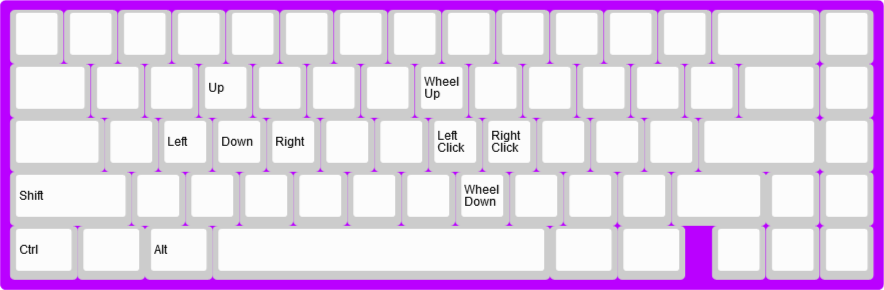
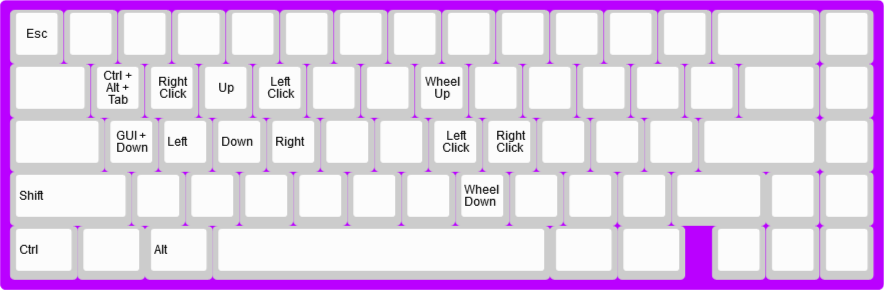
Fine tune kbd67v2 and alt mouse key layers to better match lynepad

diff --git a/keyboards/massdrop/alt/keymap.c b/keyboards/massdrop/alt/keymap.c
@@ -70,10 +70,10 @@ const uint16_t PROGMEM keymaps[][MATRIX_ROWS][MATRIX_COLS] = {
                                      KC_TRNS, KC_TRNS, KC_TRNS, KC_TRNS, KC_TRNS, KC_TRNS, KC_TRNS, KC_TRNS, KC_TRNS, KC_TRNS, KC_TRNS, KC_TRNS, KC_TRNS, KC_PSCR,
                                      KC_TRNS, KC_TRNS, KC_TRNS, KC_TRNS, KC_TRNS, KC_TRNS, KC_TRNS, KC_TRNS, KC_TRNS, KC_TRNS, KC_MEDIA_PLAY_PAUSE, KC_RSFT, KC_VOLU, KC_MUTE,
                                      KC_TRNS, KC_TRNS, KC_TRNS, KC_TRNS, KC_TRNS, KC_RALT, RGB_VAD, KC_VOLD, RGB_VAI),
-        [2] = LAYOUT_65_ansi_blocker(KC_ESC, KC_NO, KC_NO, KC_NO, KC_NO, KC_NO, KC_NO, KC_NO, KC_NO, KC_NO, KC_NO, KC_NO, KC_NO, KC_NO, KC_NO,
-                                     KC_NO, KC_NO, KC_NO, KC_MS_UP, KC_NO, KC_NO, KC_NO, KC_MS_WH_UP, KC_NO, KC_NO, KC_NO, KC_NO, KC_NO, KC_NO, KC_NO,
-                                     KC_NO, KC_NO, KC_MS_LEFT, KC_MS_DOWN, KC_MS_RIGHT, KC_NO, KC_NO, KC_MS_BTN1, KC_MS_BTN2, KC_NO, KC_NO, KC_NO, KC_NO, KC_NO,
-                                     KC_LSFT, KC_NO, KC_X, KC_C, KC_V, KC_NO, KC_NO, KC_MS_WH_DOWN, KC_NO, KC_NO, KC_NO, KC_NO, KC_NO, KC_NO,
+        [2] = LAYOUT_65_ansi_blocker(KC_ESC, KC_ESC, KC_NO, KC_NO, KC_NO, KC_NO, KC_NO, KC_NO, KC_NO, KC_NO, KC_NO, KC_NO, KC_NO, KC_NO, KC_NO,
+                                     KC_NO, LCTL(LALT(KC_TAB)), KC_MS_BTN2, KC_MS_UP, KC_MS_BTN1, KC_NO, KC_NO, KC_MS_WH_UP, KC_NO, KC_NO, KC_NO, KC_NO, KC_NO, KC_NO, KC_NO,
+                                     KC_NO, LGUI(KC_DOWN), KC_MS_LEFT, KC_MS_DOWN, KC_MS_RIGHT, KC_NO, KC_NO, KC_MS_BTN1, KC_MS_BTN2, KC_NO, KC_NO, KC_NO, KC_NO, KC_NO,
+                                     KC_LSFT, KC_NO, KC_X, KC_C, KC_V, KC_NO, KC_NO, KC_MS_WH_DOWN, KC_NO, KC_NO, KC_NO, KC_RSFT, KC_NO, KC_NO,
                                      KC_LCTL, KC_NO, TG(2), KC_NO, TG(2), KC_NO, KC_NO, KC_NO, KC_NO),
 };
 
@@ -92,8 +92,8 @@ const uint8_t PROGMEM ledcolors[][DRIVER_LED_TOTAL][3] = {
     },
     [2] = {
         {RGB_KMN_PRPL}, {RGB_KMN_NO_COLOR}, {RGB_KMN_NO_COLOR}, {RGB_KMN_NO_COLOR}, {RGB_KMN_NO_COLOR}, {RGB_KMN_NO_COLOR}, {RGB_KMN_NO_COLOR}, {RGB_KMN_NO_COLOR}, {RGB_KMN_NO_COLOR}, {RGB_KMN_NO_COLOR}, {RGB_KMN_NO_COLOR}, {RGB_KMN_NO_COLOR}, {RGB_KMN_NO_COLOR}, {RGB_KMN_NO_COLOR}, {RGB_KMN_NO_COLOR},
-        {RGB_KMN_NO_COLOR}, {RGB_KMN_NO_COLOR}, {RGB_KMN_NO_COLOR}, {RGB_KMN_PRPL}, {RGB_KMN_NO_COLOR}, {RGB_KMN_NO_COLOR}, {RGB_KMN_NO_COLOR}, {RGB_KMN_PRPL}, {RGB_KMN_NO_COLOR}, {RGB_KMN_NO_COLOR}, {RGB_KMN_NO_COLOR}, {RGB_KMN_NO_COLOR}, {RGB_KMN_NO_COLOR}, {RGB_KMN_NO_COLOR}, {RGB_KMN_NO_COLOR},
-        {RGB_KMN_NO_COLOR}, {RGB_KMN_NO_COLOR}, {RGB_KMN_PRPL}, {RGB_KMN_PRPL}, {RGB_KMN_PRPL}, {RGB_KMN_NO_COLOR}, {RGB_KMN_NO_COLOR}, {RGB_KMN_PRPL}, {RGB_KMN_PRPL}, {RGB_KMN_NO_COLOR}, {RGB_KMN_NO_COLOR}, {RGB_KMN_NO_COLOR}, {RGB_KMN_NO_COLOR}, {RGB_KMN_NO_COLOR},
+        {RGB_KMN_NO_COLOR}, {RGB_KMN_PRPL}, {RGB_KMN_PRPL}, {RGB_KMN_PRPL}, {RGB_KMN_PRPL}, {RGB_KMN_NO_COLOR}, {RGB_KMN_NO_COLOR}, {RGB_KMN_PRPL}, {RGB_KMN_NO_COLOR}, {RGB_KMN_NO_COLOR}, {RGB_KMN_NO_COLOR}, {RGB_KMN_NO_COLOR}, {RGB_KMN_NO_COLOR}, {RGB_KMN_NO_COLOR}, {RGB_KMN_NO_COLOR},
+        {RGB_KMN_NO_COLOR}, {RGB_KMN_PRPL}, {RGB_KMN_PRPL}, {RGB_KMN_PRPL}, {RGB_KMN_PRPL}, {RGB_KMN_NO_COLOR}, {RGB_KMN_NO_COLOR}, {RGB_KMN_PRPL}, {RGB_KMN_PRPL}, {RGB_KMN_NO_COLOR}, {RGB_KMN_NO_COLOR}, {RGB_KMN_NO_COLOR}, {RGB_KMN_NO_COLOR}, {RGB_KMN_NO_COLOR},
         {RGB_KMN_PRPL}, {RGB_KMN_NO_COLOR}, {RGB_KMN_NO_COLOR}, {RGB_KMN_NO_COLOR}, {RGB_KMN_NO_COLOR}, {RGB_KMN_NO_COLOR}, {RGB_KMN_NO_COLOR}, {RGB_KMN_PRPL}, {RGB_KMN_NO_COLOR}, {RGB_KMN_NO_COLOR}, {RGB_KMN_NO_COLOR}, {RGB_KMN_NO_COLOR}, {RGB_KMN_NO_COLOR}, {RGB_KMN_NO_COLOR},
         {RGB_KMN_PRPL}, {RGB_KMN_NO_COLOR}, {RGB_KMN_PRPL}, {RGB_KMN_NO_COLOR}, {RGB_KMN_PRPL}, {RGB_KMN_NO_COLOR}, {RGB_KMN_NO_COLOR}, {RGB_KMN_NO_COLOR}, {RGB_KMN_NO_COLOR},
         // Underglow == 38 LEDS

diff --git a/qmk/keyboards/massdrop/alt/keymaps/kemonine/keymap.c b/qmk/keyboards/massdrop/alt/keymaps/kemonine/keymap.c
@@ -70,10 +70,10 @@ const uint16_t PROGMEM keymaps[][MATRIX_ROWS][MATRIX_COLS] = {
                                      KC_TRNS, KC_TRNS, KC_TRNS, KC_TRNS, KC_TRNS, KC_TRNS, KC_TRNS, KC_TRNS, KC_TRNS, KC_TRNS, KC_TRNS, KC_TRNS, KC_TRNS, KC_PSCR,
                                      KC_TRNS, KC_TRNS, KC_TRNS, KC_TRNS, KC_TRNS, KC_TRNS, KC_TRNS, KC_TRNS, KC_TRNS, KC_TRNS, KC_MEDIA_PLAY_PAUSE, KC_RSFT, KC_VOLU, KC_MUTE,
                                      KC_TRNS, KC_TRNS, KC_TRNS, KC_TRNS, KC_TRNS, KC_RALT, RGB_VAD, KC_VOLD, RGB_VAI),
-        [2] = LAYOUT_65_ansi_blocker(KC_ESC, KC_NO, KC_NO, KC_NO, KC_NO, KC_NO, KC_NO, KC_NO, KC_NO, KC_NO, KC_NO, KC_NO, KC_NO, KC_NO, KC_NO,
-                                     KC_NO, KC_NO, KC_NO, KC_MS_UP, KC_NO, KC_NO, KC_NO, KC_MS_WH_UP, KC_NO, KC_NO, KC_NO, KC_NO, KC_NO, KC_NO, KC_NO,
-                                     KC_NO, KC_NO, KC_MS_LEFT, KC_MS_DOWN, KC_MS_RIGHT, KC_NO, KC_NO, KC_MS_BTN1, KC_MS_BTN2, KC_NO, KC_NO, KC_NO, KC_NO, KC_NO,
-                                     KC_LSFT, KC_NO, KC_X, KC_C, KC_V, KC_NO, KC_NO, KC_MS_WH_DOWN, KC_NO, KC_NO, KC_NO, KC_NO, KC_NO, KC_NO,
+        [2] = LAYOUT_65_ansi_blocker(KC_ESC, KC_ESC, KC_NO, KC_NO, KC_NO, KC_NO, KC_NO, KC_NO, KC_NO, KC_NO, KC_NO, KC_NO, KC_NO, KC_NO, KC_NO,
+                                     KC_NO, LCTL(LALT(KC_TAB)), KC_MS_BTN2, KC_MS_UP, KC_MS_BTN1, KC_NO, KC_NO, KC_MS_WH_UP, KC_NO, KC_NO, KC_NO, KC_NO, KC_NO, KC_NO, KC_NO,
+                                     KC_NO, LGUI(KC_DOWN), KC_MS_LEFT, KC_MS_DOWN, KC_MS_RIGHT, KC_NO, KC_NO, KC_MS_BTN1, KC_MS_BTN2, KC_NO, KC_NO, KC_NO, KC_NO, KC_NO,
+                                     KC_LSFT, KC_NO, KC_X, KC_C, KC_V, KC_NO, KC_NO, KC_MS_WH_DOWN, KC_NO, KC_NO, KC_NO, KC_RSFT, KC_NO, KC_NO,
                                      KC_LCTL, KC_NO, TG(2), KC_NO, TG(2), KC_NO, KC_NO, KC_NO, KC_NO),
 };
 
@@ -92,8 +92,8 @@ const uint8_t PROGMEM ledcolors[][DRIVER_LED_TOTAL][3] = {
     },
     [2] = {
         {RGB_KMN_PRPL}, {RGB_KMN_NO_COLOR}, {RGB_KMN_NO_COLOR}, {RGB_KMN_NO_COLOR}, {RGB_KMN_NO_COLOR}, {RGB_KMN_NO_COLOR}, {RGB_KMN_NO_COLOR}, {RGB_KMN_NO_COLOR}, {RGB_KMN_NO_COLOR}, {RGB_KMN_NO_COLOR}, {RGB_KMN_NO_COLOR}, {RGB_KMN_NO_COLOR}, {RGB_KMN_NO_COLOR}, {RGB_KMN_NO_COLOR}, {RGB_KMN_NO_COLOR},
-        {RGB_KMN_NO_COLOR}, {RGB_KMN_NO_COLOR}, {RGB_KMN_NO_COLOR}, {RGB_KMN_PRPL}, {RGB_KMN_NO_COLOR}, {RGB_KMN_NO_COLOR}, {RGB_KMN_NO_COLOR}, {RGB_KMN_PRPL}, {RGB_KMN_NO_COLOR}, {RGB_KMN_NO_COLOR}, {RGB_KMN_NO_COLOR}, {RGB_KMN_NO_COLOR}, {RGB_KMN_NO_COLOR}, {RGB_KMN_NO_COLOR}, {RGB_KMN_NO_COLOR},
-        {RGB_KMN_NO_COLOR}, {RGB_KMN_NO_COLOR}, {RGB_KMN_PRPL}, {RGB_KMN_PRPL}, {RGB_KMN_PRPL}, {RGB_KMN_NO_COLOR}, {RGB_KMN_NO_COLOR}, {RGB_KMN_PRPL}, {RGB_KMN_PRPL}, {RGB_KMN_NO_COLOR}, {RGB_KMN_NO_COLOR}, {RGB_KMN_NO_COLOR}, {RGB_KMN_NO_COLOR}, {RGB_KMN_NO_COLOR},
+        {RGB_KMN_NO_COLOR}, {RGB_KMN_PRPL}, {RGB_KMN_PRPL}, {RGB_KMN_PRPL}, {RGB_KMN_PRPL}, {RGB_KMN_NO_COLOR}, {RGB_KMN_NO_COLOR}, {RGB_KMN_PRPL}, {RGB_KMN_NO_COLOR}, {RGB_KMN_NO_COLOR}, {RGB_KMN_NO_COLOR}, {RGB_KMN_NO_COLOR}, {RGB_KMN_NO_COLOR}, {RGB_KMN_NO_COLOR}, {RGB_KMN_NO_COLOR},
+        {RGB_KMN_NO_COLOR}, {RGB_KMN_PRPL}, {RGB_KMN_PRPL}, {RGB_KMN_PRPL}, {RGB_KMN_PRPL}, {RGB_KMN_NO_COLOR}, {RGB_KMN_NO_COLOR}, {RGB_KMN_PRPL}, {RGB_KMN_PRPL}, {RGB_KMN_NO_COLOR}, {RGB_KMN_NO_COLOR}, {RGB_KMN_NO_COLOR}, {RGB_KMN_NO_COLOR}, {RGB_KMN_NO_COLOR},
         {RGB_KMN_PRPL}, {RGB_KMN_NO_COLOR}, {RGB_KMN_NO_COLOR}, {RGB_KMN_NO_COLOR}, {RGB_KMN_NO_COLOR}, {RGB_KMN_NO_COLOR}, {RGB_KMN_NO_COLOR}, {RGB_KMN_PRPL}, {RGB_KMN_NO_COLOR}, {RGB_KMN_NO_COLOR}, {RGB_KMN_NO_COLOR}, {RGB_KMN_NO_COLOR}, {RGB_KMN_NO_COLOR}, {RGB_KMN_NO_COLOR},
         {RGB_KMN_PRPL}, {RGB_KMN_NO_COLOR}, {RGB_KMN_PRPL}, {RGB_KMN_NO_COLOR}, {RGB_KMN_PRPL}, {RGB_KMN_NO_COLOR}, {RGB_KMN_NO_COLOR}, {RGB_KMN_NO_COLOR}, {RGB_KMN_NO_COLOR},
         // Underglow == 38 LEDS

diff --git a/keyboards/kbdfans/kbd67/rev2/keymap.c b/keyboards/kbdfans/kbd67/rev2/keymap.c
@@ -40,11 +40,11 @@ const uint16_t PROGMEM keymaps[][MATRIX_ROWS][MATRIX_COLS] = {
                                      KC_TRNS, KC_TRNS, KC_TRNS, KC_TRNS, KC_TRNS, KC_TRNS, KC_TRNS, KC_TRNS, KC_TRNS, KC_TRNS, KC_TRNS, KC_TRNS, KC_TRNS, KC_PSCR,
                                      KC_TRNS, KC_TRNS, KC_TRNS, KC_TRNS, KC_TRNS, KC_TRNS, KC_TRNS, KC_TRNS, KC_TRNS, KC_TRNS, KC_MEDIA_PLAY_PAUSE, KC_RSFT, KC_VOLU, KC_MUTE,
                                      KC_TRNS, KC_TRNS, KC_TRNS, KC_TRNS, KC_TRNS, KC_TRNS, KC_TRNS, RGB_VAD, KC_VOLD, RGB_VAI),
-        [2] = LAYOUT_65_ansi(KC_ESC, KC_NO, KC_NO, KC_NO, KC_NO, KC_NO, KC_NO, KC_NO, KC_NO, KC_NO, KC_NO, KC_NO, KC_NO, KC_NO, KC_NO,
-                                     KC_NO, KC_NO, KC_NO, KC_MS_UP, KC_NO, KC_NO, KC_NO, KC_MS_WH_UP, KC_NO, KC_NO, KC_NO, KC_NO, KC_NO, KC_NO, KC_NO,
-                                     KC_NO, KC_NO, KC_MS_LEFT, KC_MS_DOWN, KC_MS_RIGHT, KC_NO, KC_NO, KC_MS_BTN1, KC_MS_BTN2, KC_NO, KC_NO, KC_NO, KC_NO, KC_NO,
-                                     KC_LSFT, KC_NO, KC_X, KC_C, KC_V, KC_NO, KC_NO, KC_MS_WH_DOWN, KC_NO, KC_NO, KC_NO, KC_NO, KC_NO, KC_NO,
-                                     KC_LCTL, KC_NO, TG(2), KC_NO, TG(2), KC_NO, KC_NO, KC_NO, KC_NO, KC_NO),
+        [2] = LAYOUT_65_ansi(KC_ESC, KC_ESC, KC_NO, KC_NO, KC_NO, KC_NO, KC_NO, KC_NO, KC_NO, KC_NO, KC_NO, KC_NO, KC_NO, KC_NO, KC_NO,
+                                     KC_NO, LCTL(LALT(KC_TAB)), KC_MS_BTN2, KC_MS_UP, KC_MS_BTN1, KC_NO, KC_NO, KC_MS_WH_UP, KC_NO, KC_NO, KC_NO, KC_NO, KC_NO, KC_NO, KC_NO,
+                                     KC_NO, LGUI(KC_DOWN), KC_MS_LEFT, KC_MS_DOWN, KC_MS_RIGHT, KC_NO, KC_NO, KC_MS_BTN1, KC_MS_BTN2, KC_NO, KC_NO, KC_NO, KC_NO, KC_NO,
+                                     KC_LSFT, KC_NO, KC_X, KC_C, KC_V, KC_NO, KC_NO, KC_MS_WH_DOWN, KC_NO, KC_NO, KC_NO, KC_RSFT, KC_NO, KC_NO,
+                                     KC_LCTL, KC_NO, TG(2), KC_NO, TG(2), KC_RALT, KC_RCTL, KC_NO, KC_NO, KC_NO),
 };
 
 // Customized HSV values for layer highlights

diff --git a/qmk/keyboards/kbdfans/kbd67/rev2/keymaps/kemonine/keymap.c b/qmk/keyboards/kbdfans/kbd67/rev2/keymaps/kemonine/keymap.c
@@ -40,11 +40,11 @@ const uint16_t PROGMEM keymaps[][MATRIX_ROWS][MATRIX_COLS] = {
                                      KC_TRNS, KC_TRNS, KC_TRNS, KC_TRNS, KC_TRNS, KC_TRNS, KC_TRNS, KC_TRNS, KC_TRNS, KC_TRNS, KC_TRNS, KC_TRNS, KC_TRNS, KC_PSCR,
                                      KC_TRNS, KC_TRNS, KC_TRNS, KC_TRNS, KC_TRNS, KC_TRNS, KC_TRNS, KC_TRNS, KC_TRNS, KC_TRNS, KC_MEDIA_PLAY_PAUSE, KC_RSFT, KC_VOLU, KC_MUTE,
                                      KC_TRNS, KC_TRNS, KC_TRNS, KC_TRNS, KC_TRNS, KC_TRNS, KC_TRNS, RGB_VAD, KC_VOLD, RGB_VAI),
-        [2] = LAYOUT_65_ansi(KC_ESC, KC_NO, KC_NO, KC_NO, KC_NO, KC_NO, KC_NO, KC_NO, KC_NO, KC_NO, KC_NO, KC_NO, KC_NO, KC_NO, KC_NO,
-                                     KC_NO, KC_NO, KC_NO, KC_MS_UP, KC_NO, KC_NO, KC_NO, KC_MS_WH_UP, KC_NO, KC_NO, KC_NO, KC_NO, KC_NO, KC_NO, KC_NO,
-                                     KC_NO, KC_NO, KC_MS_LEFT, KC_MS_DOWN, KC_MS_RIGHT, KC_NO, KC_NO, KC_MS_BTN1, KC_MS_BTN2, KC_NO, KC_NO, KC_NO, KC_NO, KC_NO,
-                                     KC_LSFT, KC_NO, KC_X, KC_C, KC_V, KC_NO, KC_NO, KC_MS_WH_DOWN, KC_NO, KC_NO, KC_NO, KC_NO, KC_NO, KC_NO,
-                                     KC_LCTL, KC_NO, TG(2), KC_NO, TG(2), KC_NO, KC_NO, KC_NO, KC_NO, KC_NO),
+        [2] = LAYOUT_65_ansi(KC_ESC, KC_ESC, KC_NO, KC_NO, KC_NO, KC_NO, KC_NO, KC_NO, KC_NO, KC_NO, KC_NO, KC_NO, KC_NO, KC_NO, KC_NO,
+                                     KC_NO, LCTL(LALT(KC_TAB)), KC_MS_BTN2, KC_MS_UP, KC_MS_BTN1, KC_NO, KC_NO, KC_MS_WH_UP, KC_NO, KC_NO, KC_NO, KC_NO, KC_NO, KC_NO, KC_NO,
+                                     KC_NO, LGUI(KC_DOWN), KC_MS_LEFT, KC_MS_DOWN, KC_MS_RIGHT, KC_NO, KC_NO, KC_MS_BTN1, KC_MS_BTN2, KC_NO, KC_NO, KC_NO, KC_NO, KC_NO,
+                                     KC_LSFT, KC_NO, KC_X, KC_C, KC_V, KC_NO, KC_NO, KC_MS_WH_DOWN, KC_NO, KC_NO, KC_NO, KC_RSFT, KC_NO, KC_NO,
+                                     KC_LCTL, KC_NO, TG(2), KC_NO, TG(2), KC_RALT, KC_RCTL, KC_NO, KC_NO, KC_NO),
 };
 
 // Customized HSV values for layer highlights

diff --git a/keyboards/massdrop/alt/config.h b/keyboards/massdrop/alt/config.h
@@ -1,0 +1,12 @@
+#define TAPPING_TERM 200
+#define GRAVE_ESC_CTRL_OVERRIDE
+
+// Mouse settings
+#define MOUSEKEY_DELAY 175
+#define MOUSEKEY_WHEEL_DELAY 175
+#define MOUSEKEY_INTERVAL 20
+#define MOUSEKEY_TIME_TO_MAX 15
+#define MOUSEKEY_MAX_SPEED 5
+#define MOUSEKEY_WHEEL_INTERVAL 50
+#define MOUSEKEY_WHEEL_TIME_TO_MAX 20
+#define MOUSEKEY_WHEEL_MAX_SPEED 10

diff --git a/qmk/keyboards/massdrop/alt/keymaps/kemonine/config.h b/qmk/keyboards/massdrop/alt/keymaps/kemonine/config.h
@@ -1,0 +1,12 @@
+#define TAPPING_TERM 200
+#define GRAVE_ESC_CTRL_OVERRIDE
+
+// Mouse settings
+#define MOUSEKEY_DELAY 175
+#define MOUSEKEY_WHEEL_DELAY 175
+#define MOUSEKEY_INTERVAL 20
+#define MOUSEKEY_TIME_TO_MAX 15
+#define MOUSEKEY_MAX_SPEED 5
+#define MOUSEKEY_WHEEL_INTERVAL 50
+#define MOUSEKEY_WHEEL_TIME_TO_MAX 20
+#define MOUSEKEY_WHEEL_MAX_SPEED 10
